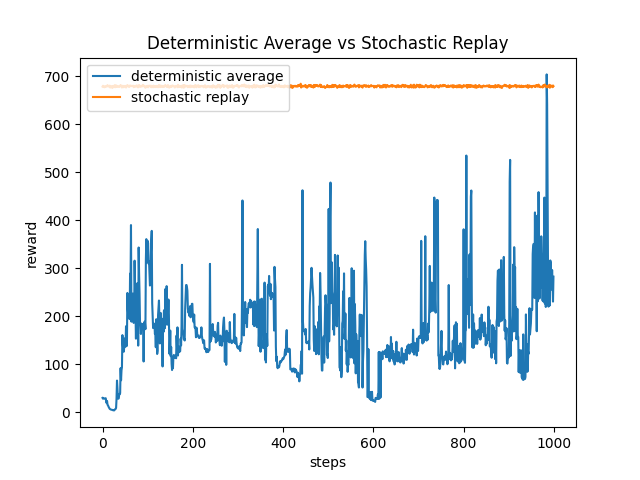
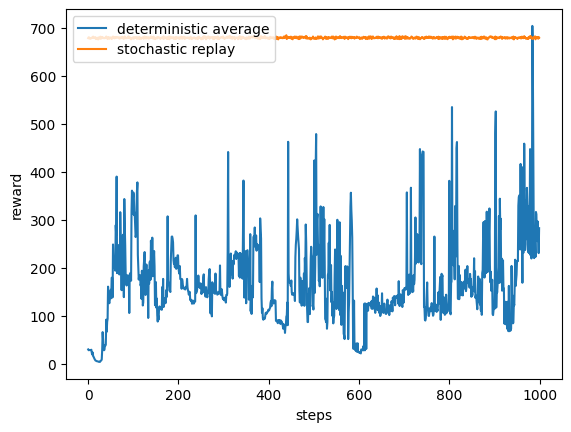
make_tau, make_reward, fix make_det_avg filepaths

Changed region(s): [[0.0, 0.0301, 0.9825, 0.9931]]

diff --git a/main.py b/main.py
@@ -9,7 +9,7 @@ def make_deterministic_average():
 
     #average arrays
     det_avg = np.mean( np.array([ det1, det2, det3 ]), axis=0 )
-    a = open('Experiments/3 Variable Hyperparameters/Stochastic vs Deterministc/Hopper Average/Hopper-v2-det_avg.txt', 'w')
+    a = open('Experiments/3 Variable Hyperparameters/Stochastic vs Deterministc/Deterministic Hopper Baseline/Hopper-v2-det_avg.txt', 'w')
     np.savetxt(a, det_avg)
     a.close()
 
@@ -20,7 +20,7 @@ def get_array(filepath):
 
 def make_det_avg():
     deter_avg = make_deterministic_average()
-    stoch_replay = get_array('Experiments/3 Variable Hyperparameters/Stochastic vs Deterministc/Stochastic Replay/Hopper-v2-stoch_replay_deter.txt')
+    stoch_replay = get_array('Experiments/3 Variable Hyperparameters/Stochastic vs Deterministc/Stochastic Hopper with Deterministic Replay/Hopper-v2-stoch_replay_deter.txt')
     a = { 'deterministic average' : np.array(deter_avg),
           'stochastic replay': np.array(stoch_replay)}
     display_graph_det_avg(a)
@@ -33,9 +33,9 @@ def display_graph_det_avg(dict):
     plt.xlabel("steps")
     plt.ylabel("reward")
     plt.legend(loc='upper left')
-    plt.title("Deterministic Average vs Stochastic Replay")
-    plt.show()
-    plt.savefig('Experiments/Figures/det_avg_stoch_replay.png')
+    #plt.title("Deterministic Average vs Stochastic Replay")
+    plt.savefig('Experiments/Figures/det_avg_stoch_replay.png', bbox_inches='tight')
+    #plt.show()
 
 
 def make_default():
@@ -54,9 +54,9 @@ def make_default():
     plt.xlabel("steps")
     plt.ylabel("reward")
     plt.legend(loc='upper left')
-    plt.title("SAC Default Hyperparameters")
-    plt.show()
-    plt.savefig('Experiments/Figures/sac_default_params.png')
+    #plt.title("SAC Default Hyperparameters")
+    plt.savefig('Experiments/Figures/sac_default_params.png', bbox_inches='tight')
+    #plt.show()
 
 def make_stoch_vs_det():
     b1 = get_array('Experiments/3 Variable Hyperparameters/HopperBaselines/1/Hopper-v2-baseline1.txt')
@@ -78,12 +78,58 @@ def make_stoch_vs_det():
     plt.xlabel("steps")
     plt.ylabel("reward")
     plt.legend(loc='upper left')
-    plt.title("stochastic vs deterministic training")
-    plt.show()
-    plt.savefig('Experiments/Figures/stoch_vs_det_train.png')
+    #plt.title("stochastic vs deterministic training")
+    plt.savefig('Experiments/Figures/stoch_vs_det_train.png', bbox_inches='tight')
+    #plt.show()
 
+def plot_array():
+    a = get_array('Experiments/3 Variable Hyperparameters/HopperBaselines/1/Hopper-v2-baseline1.txt')
+    plt.plot(a, color='r')
+    plt.show()
+
+def make_reward():
+    r1 = get_array('Experiments/3 Variable Hyperparameters/Reward/Reward 1/Hopper-v2-r1.txt')
+    r3 = get_array('Experiments/3 Variable Hyperparameters/Reward/Reward 3/Hopper-v2-r3.txt')
+    r10 = get_array('Experiments/3 Variable Hyperparameters/Reward/Reward 10/Hopper-v2-r10.txt')
+    r30 = get_array('Experiments/3 Variable Hyperparameters/Reward/Reward 30/Hopper-v2-r30.txt')
+    r100 = get_array('Experiments/3 Variable Hyperparameters/Reward/Reward 100/Hopper-v2-r100.txt')
+
+    plt.plot(r1, label='Reward 1', color='y')
+    plt.plot(r3, label='Reward 3', color='m')
+    plt.plot(r10, label='Reward 10', color='r')
+    plt.plot(r30, label='Reward 30', color='g')
+    plt.plot(r100, label='Reward 100', color='b')
+
+    plt.xlabel("steps")
+    plt.ylabel("reward")
+    plt.legend(loc='upper left')
+    #plt.title("Reward Scale")
+    plt.savefig('Experiments/Figures/reward_scale.png', bbox_inches='tight')
+    #plt.show()
+
+def make_tau():
+    t1 = get_array('Experiments/3 Variable Hyperparameters/Tau/Tau 1/Hopper-v2-t1.txt')
+    t2 = get_array('Experiments/3 Variable Hyperparameters/Tau/Tau 2Hopper-v2-t2.txt')
+    t3 = get_array('Experiments/3 Variable Hyperparameters/Tau/Tau 3/Hopper-v2-t3.txt')
+    t4 = get_array('Experiments/3 Variable Hyperparameters/Tau/Tau 4/Hopper-v2-t4.txt')
+
+    plt.plot(t1, label='Reward 1', color='y')
+    plt.plot(t2, label='Reward 3', color='m')
+    plt.plot(t3, label='Reward 10', color='r')
+    plt.plot(t4, label='Reward 30', color='g')
+
+
+    plt.xlabel("steps")
+    plt.ylabel("reward")
+    plt.legend(loc='upper left')
+    #plt.title("Tau Coefficient")
+    plt.savefig('Experiments/Figures/tau_coefficient.png', bbox_inches='tight')
+    #plt.show()
 
 if __name__ == "__main__":
+    #plot_array()
     #make_det_avg()
     #make_default()
     #make_stoch_vs_det()
+    #make_reward()
+    #make_tau()
